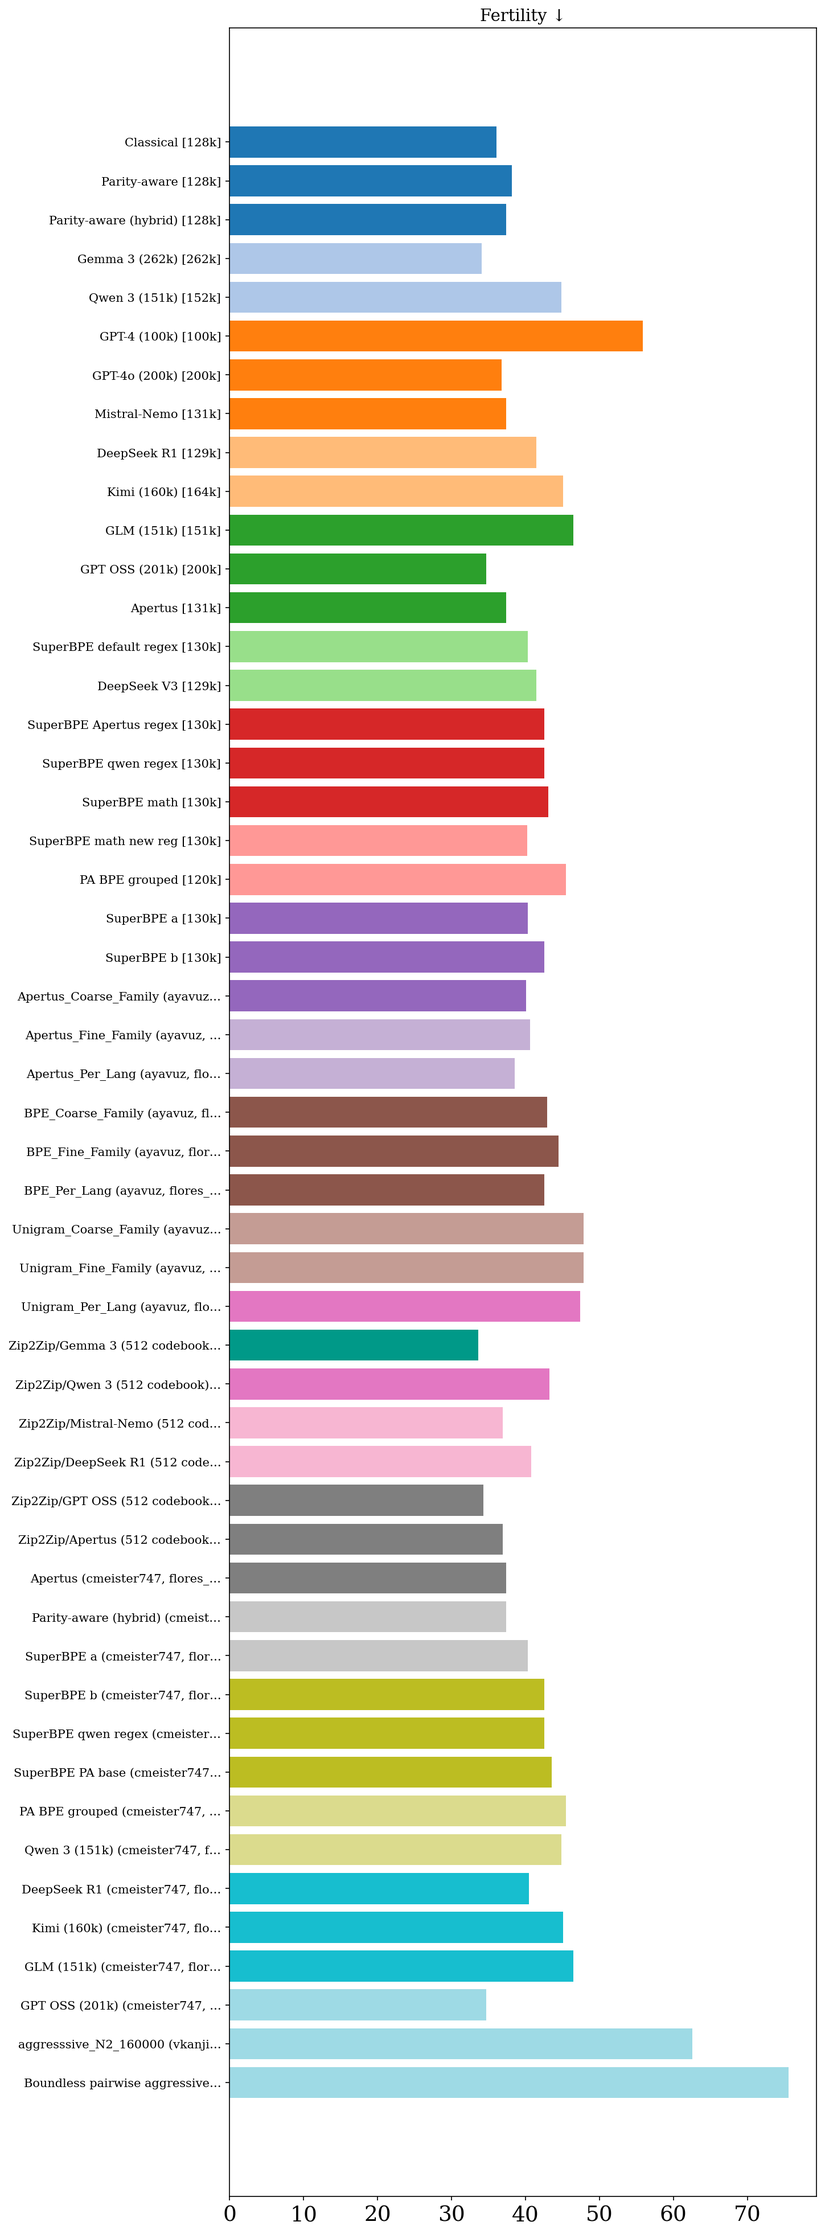
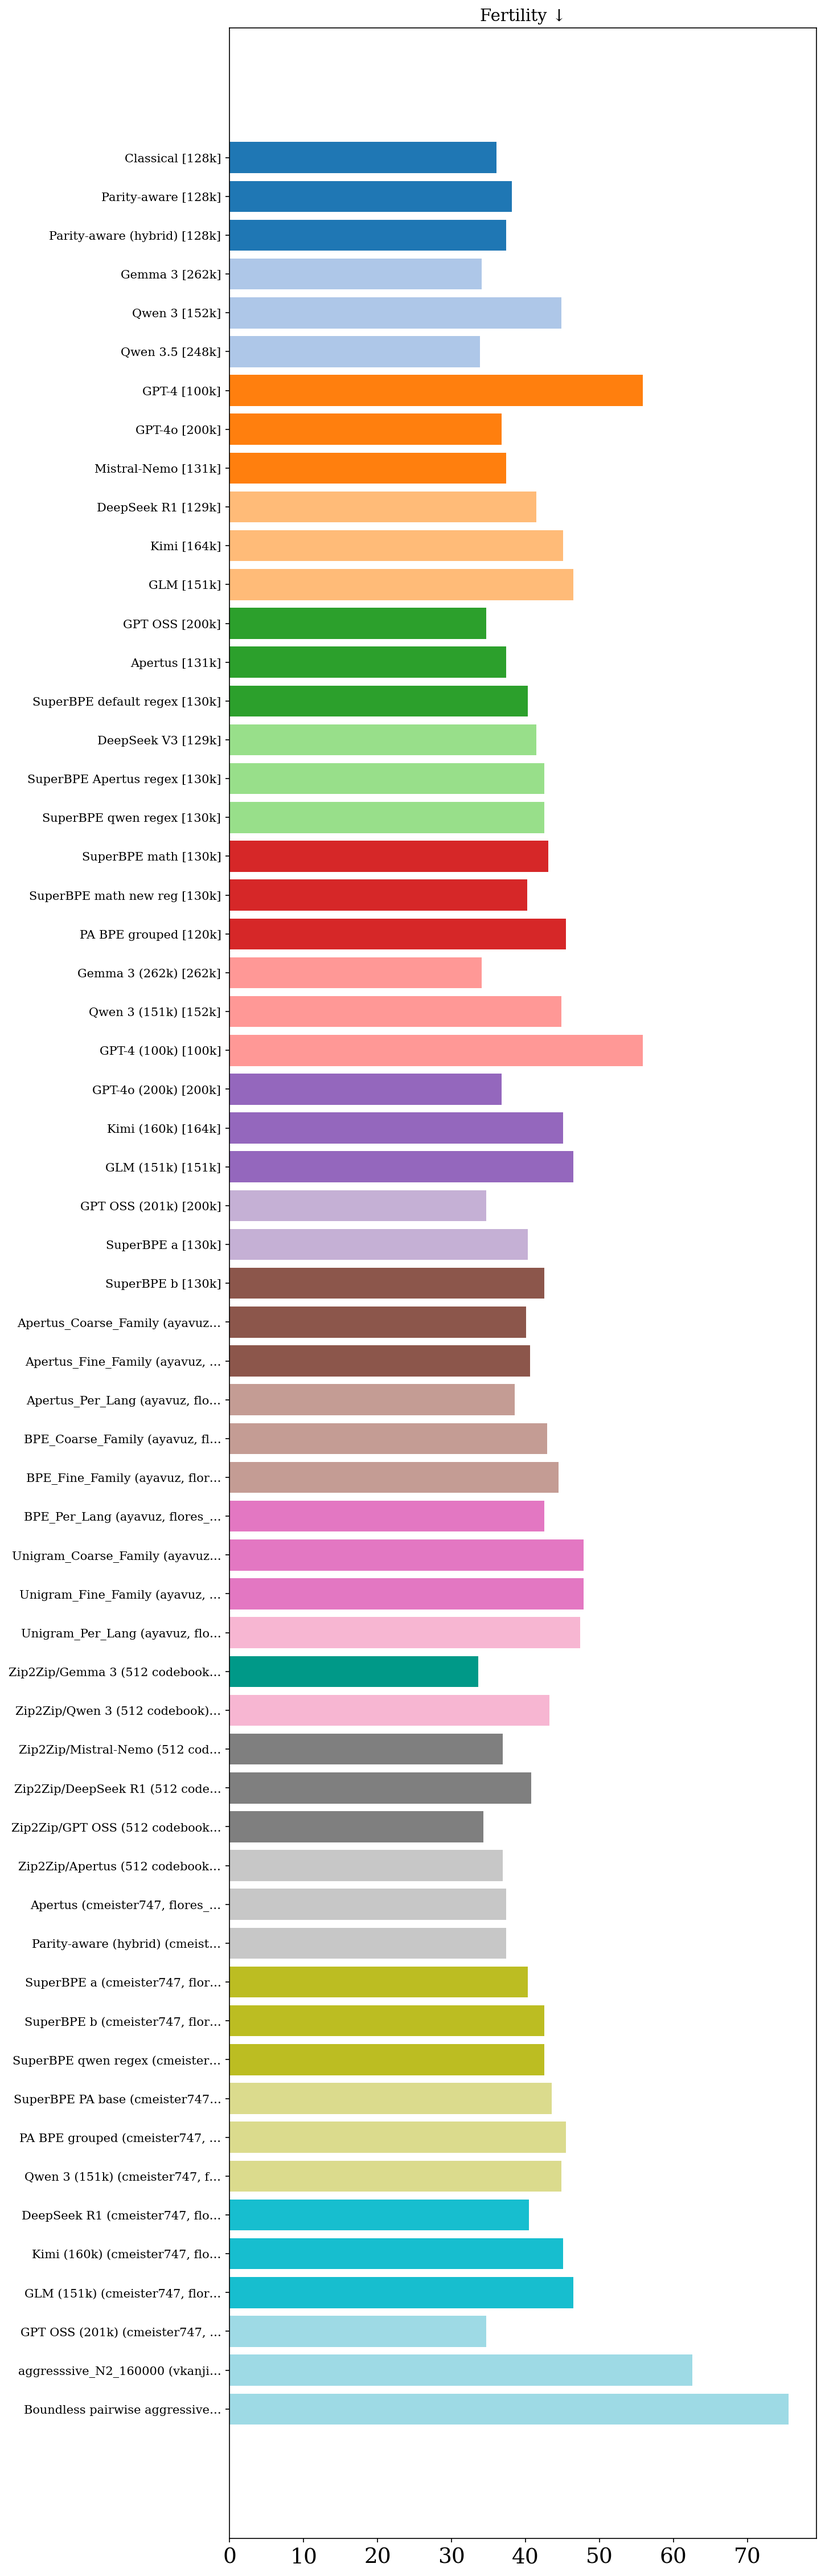
Update RESULTS_flores_core_lines.md (2026-02-27 08:13:20)

diff --git a/RESULTS_flores_core_lines.md b/RESULTS_flores_core_lines.md
@@ -1,9 +1,30 @@
-# Tokenizer Evaluation Results
+# Tokenizer Evaluation Results — flores_core / lines
 
-_Last updated: 2026-02-27 08:07:51_
+_Last updated: 2026-02-26 17:27:10_
 
-| Tokenizer | Vocab Size | Fertility | Compression Rate | Vocab Util. | Avg Token Rank | Gini | 3-Digit Align. F1 | Op. Isolation | AST Align. | Ident. Frag. | Depth Corr. | Pat. Stability | Bound. Cross | Char Split | Languages | UTF-8 Integ. | TTR | Shannon Entropy | Dataset | User | Date |
+| Tokenizer | Vocab Size | Fertility ↓ | Compression Rate ↑ | Vocab Util. ↑ | Avg Token Rank ↓ | Gini ↓ | 3-Digit Align. F1 ↑ | Op. Isolation ↑ | AST Align. ↑ | Ident. Frag. ↓ | Depth Corr. ↑ | Pat. Stability ↑ | Bound. Cross ↓ | Char Split ↓ | Languages | UTF-8 Integ. | TTR | Shannon Entropy | Dataset | User | Date |
 | --- | --- | --- | --- | --- | --- | --- | --- | --- | --- | --- | --- | --- | --- | --- | --- | --- | --- | --- | --- | --- | --- |
+| Classical [128k] | 128,004 | 36.127 | 0.031 | 0.369 | 6524.2 | 0.049 | 0.779 | 0.190 | 0.148 | 0.055 | **0.000** | **1.000** | 0.0033 | 0.0052 | 13 | 0.990 | --- | --- | flores_core | meistecl | 2026-02-26 |
+| Parity-aware [128k] | 128,004 | 38.139 | 0.029 | 0.322 | 5367.5 | **0.012** | 0.742 | 0.191 | 0.188 | 0.082 | 0.000 | 1.000 | 0.0037 | 0.0058 | 13 | 0.989 | --- | --- | flores_core | meistecl | 2026-02-26 |
+| Parity-aware (hybrid) [128k] | 128,004 | 37.385 | 0.030 | 0.330 | 5693.5 | 0.028 | 0.753 | 0.190 | 0.160 | 0.066 | 0.000 | 1.000 | 0.0036 | 0.0057 | 13 | 0.989 | --- | --- | flores_core | meistecl | 2026-02-26 |
+| Gemma 3 [262k] | 262,145 | 34.075 | 0.033 | 0.217 | 7779.7 | 0.054 | 0.446 | 0.346 | 0.088 | 0.030 | -0.113 | 0.966 | 0.0426 | 0.0062 | 13 | --- | --- | --- | flores_core | meistecl | 2026-02-26 |
+| Qwen 3 [152k] | 151,669 | 44.867 | 0.029 | 0.228 | 3303.4 | 0.181 | 0.379 | 0.527 | 0.605 | 0.383 | 0.000 | 1.000 | 0.0513 | 0.0759 | 13 | --- | --- | --- | flores_core | meistecl | 2026-02-26 |
+| Qwen 3.5 [248k] | 248,077 | 33.854 | **0.035** | 0.234 | 7687.9 | 0.099 | 0.379 | 0.527 | **0.680** | 0.381 | 0.000 | 1.000 | 0.0009 | 0.0021 | 13 | --- | --- | --- | flores_core | meistecl | 2026-02-26 |
+| GPT-4 [100k] | 100,261 | 55.839 | 0.023 | 0.192 | 1391.9 | 0.204 | 0.760 | 0.531 | 0.610 | 0.434 | 0.000 | 1.000 | 0.0510 | 0.1586 | 13 | --- | --- | --- | flores_core | meistecl | 2026-02-26 |
+| GPT-4o [200k] | 200,000 | 36.773 | 0.031 | 0.226 | 5833.0 | 0.059 | 0.756 | 0.364 | 0.615 | 0.450 | 0.000 | 1.000 | 0.0089 | 0.0130 | 13 | --- | --- | --- | flores_core | meistecl | 2026-02-26 |
+| Mistral-Nemo [131k] | 131,072 | 37.419 | 0.031 | 0.341 | 5610.9 | 0.069 | 0.379 | 0.139 | 0.060 | 0.037 | 0.000 | 1.000 | 0.0014 | 0.0119 | 13 | 0.977 | --- | --- | flores_core | meistecl | 2026-02-26 |
+| DeepSeek R1 [129k] | 128,815 | 41.449 | 0.029 | 0.285 | 3944.5 | 0.136 | 0.779 | 0.188 | 0.000 | --- | 0.000 | 1.000 | 0.0071 | 0.0126 | 13 | 0.979 | --- | --- | flores_core | meistecl | 2026-02-26 |
+| Kimi [164k] | 163,840 | 45.112 | 0.027 | 0.173 | 2588.9 | 0.137 | 0.779 | 0.489 | 0.609 | 0.408 | 0.000 | 1.000 | 0.0116 | 0.0252 | 13 | --- | --- | --- | flores_core | meistecl | 2026-02-26 |
+| GLM [151k] | 151,343 | 46.472 | 0.027 | 0.251 | 3402.5 | 0.197 | 0.270 | 0.000 | 0.001 | **0.000** | 0.000 | 1.000 | **0.0000** | **0.0000** | 13 | --- | --- | --- | flores_core | meistecl | 2026-02-26 |
+| GPT OSS [200k] | 200,019 | 34.730 | 0.033 | 0.245 | 6659.5 | 0.065 | 0.779 | 0.354 | 0.609 | 0.401 | 0.000 | 1.000 | 0.0019 | 0.0059 | 13 | --- | --- | --- | flores_core | meistecl | 2026-02-26 |
+| Apertus [131k] | 131,072 | 37.419 | 0.031 | 0.341 | 5610.9 | 0.069 | 0.379 | 0.139 | 0.060 | 0.037 | 0.000 | 1.000 | 0.0014 | 0.0119 | 13 | 0.977 | --- | --- | flores_core | meistecl | 2026-02-26 |
+| SuperBPE default regex [130k] | 130,000 | 40.307 | 0.028 | 0.241 | 4421.4 | 0.069 | 0.779 | 0.379 | 0.225 | 0.028 | 0.000 | 1.000 | 0.0050 | 0.0205 | 13 | --- | --- | --- | flores_core | meistecl | 2026-02-26 |
+| DeepSeek V3 [129k] | 128,815 | 41.449 | 0.029 | 0.285 | 3944.5 | 0.136 | 0.779 | 0.188 | 0.000 | --- | 0.000 | 1.000 | 0.0071 | 0.0126 | 13 | --- | --- | --- | flores_core | meistecl | 2026-02-26 |
+| SuperBPE Apertus regex [130k] | 130,000 | 42.557 | 0.028 | 0.253 | 4104.3 | 0.122 | 0.779 | 0.966 | 0.259 | 0.029 | 0.000 | 1.000 | 0.0038 | 0.0156 | 13 | --- | --- | --- | flores_core | meistecl | 2026-02-26 |
+| SuperBPE qwen regex [130k] | 130,000 | 42.575 | 0.027 | 0.280 | 5048.7 | 0.059 | 0.379 | 0.312 | 0.284 | 0.024 | 0.000 | 1.000 | 0.0047 | 0.0196 | 13 | 0.966 | --- | --- | flores_core | meistecl | 2026-02-26 |
+| SuperBPE math [130k] | 130,000 | 43.112 | 0.028 | 0.254 | 3831.6 | 0.131 | 0.779 | **0.967** | 0.264 | 0.028 | 0.000 | 1.000 | 0.0047 | 0.0193 | 13 | --- | --- | --- | flores_core | meistecl | 2026-02-26 |
+| SuperBPE math new reg [130k] | 130,000 | 40.223 | 0.029 | 0.258 | 4403.1 | 0.085 | **0.953** | 0.311 | 0.230 | 0.027 | 0.000 | 1.000 | 0.0061 | 0.0247 | 13 | --- | --- | --- | flores_core | meistecl | 2026-02-26 |
+| PA BPE grouped [120k] | 120,260 | 45.497 | 0.025 | 0.199 | 2898.5 | 0.073 | 0.712 | 0.191 | 0.159 | 0.067 | 0.000 | 1.000 | 0.0105 | 0.0415 | 13 | 0.934 | --- | --- | flores_core | meistecl | 2026-02-26 |
 | Apertus_Coarse_Family (ayavuz, flores_core) | --- | 40.070 | 0.029 | 0.340 | --- | 0.103 | --- | --- | --- | --- | --- | --- | --- | --- | 13 | --- | 0.0858 | 12.49 | flores_core | ayavuz | 2026-02-21 |
 | Apertus_Fine_Family (ayavuz, flores_core) | --- | 40.619 | 0.029 | 0.336 | --- | 0.114 | --- | --- | --- | --- | --- | --- | --- | --- | 13 | --- | 0.0837 | 12.43 | flores_core | ayavuz | 2026-02-21 |
 | Apertus_Per_Lang (ayavuz, flores_core) | --- | 38.592 | 0.030 | 0.333 | --- | 0.083 | --- | --- | --- | --- | --- | --- | --- | --- | 13 | --- | 0.0872 | 12.62 | flores_core | ayavuz | 2026-02-21 |
@@ -13,11 +34,11 @@ _Last updated: 2026-02-27 08:07:51_
 | Unigram_Coarse_Family (ayavuz, flores_core) | --- | 47.868 | 0.024 | 0.254 | --- | 0.066 | --- | --- | --- | --- | --- | --- | --- | --- | 13 | --- | 0.0536 | 11.73 | flores_core | ayavuz | 2026-02-21 |
 | Unigram_Fine_Family (ayavuz, flores_core) | --- | 47.843 | 0.024 | 0.247 | --- | 0.065 | --- | --- | --- | --- | --- | --- | --- | --- | 13 | --- | 0.0521 | 11.72 | flores_core | ayavuz | 2026-02-21 |
 | Unigram_Per_Lang (ayavuz, flores_core) | --- | 47.415 | 0.024 | 0.233 | --- | 0.061 | --- | --- | --- | --- | --- | --- | --- | --- | 13 | --- | 0.0497 | 11.70 | flores_core | ayavuz | 2026-02-21 |
-| Zip2Zip/Gemma 3 (512 codebook) (saibo, flores_core) | 262,657 | 33.668 | 0.034 | 0.217 | 7808.0 | 0.053 | --- | --- | --- | --- | --- | --- | --- | --- | 13 | --- | 0.1303 | 13.08 | flores_core | saibo | 2026-02-18 |
+| Zip2Zip/Gemma 3 (512 codebook) (saibo, flores_core) | 262,657 | **33.668** | 0.034 | 0.217 | 7808.0 | 0.053 | --- | --- | --- | --- | --- | --- | --- | --- | 13 | --- | 0.1303 | 13.08 | flores_core | saibo | 2026-02-18 |
 | Zip2Zip/Qwen 3 (512 codebook) (saibo, flores_core) | 152,181 | 43.280 | 0.029 | 0.228 | 3441.9 | 0.164 | --- | --- | --- | --- | --- | --- | --- | --- | 13 | --- | 0.0619 | 12.15 | flores_core | saibo | 2026-02-18 |
 | Zip2Zip/Mistral-Nemo (512 codebook) (saibo, flores_core) | 131,584 | 36.910 | 0.031 | 0.340 | 5639.2 | 0.068 | --- | --- | --- | --- | --- | --- | --- | --- | 13 | --- | 0.0936 | 12.86 | flores_core | saibo | 2026-02-18 |
 | Zip2Zip/DeepSeek R1 (512 codebook) (saibo, flores_core) | 129,327 | 40.814 | 0.029 | 0.285 | 3985.5 | 0.133 | --- | --- | --- | --- | --- | --- | --- | --- | 13 | --- | 0.0697 | 12.44 | flores_core | saibo | 2026-02-18 |
 | Zip2Zip/GPT OSS (512 codebook) (saibo, flores_core) | 200,531 | 34.314 | 0.033 | 0.244 | 6676.6 | 0.064 | --- | --- | --- | --- | --- | --- | --- | --- | 13 | --- | 0.1102 | 13.22 | flores_core | saibo | 2026-02-18 |
 | Zip2Zip/Apertus (512 codebook) (saibo, flores_core) | 131,584 | 36.910 | 0.031 | 0.340 | 5639.2 | 0.068 | --- | --- | --- | --- | --- | --- | --- | --- | 13 | --- | 0.0936 | 12.86 | flores_core | saibo | 2026-02-18 |
 | aggresssive_N2_160000 (vkanjira, flores_core) | 19,051 | 62.586 | 0.019 | 0.295 | 382.8 | 0.120 | 0.635 | 0.382 | --- | --- | --- | --- | --- | --- | 13 | --- | 0.0069 | 9.53 | flores_core | vkanjira | 2026-02-22 |
-| Boundless pairwise aggressive n2 (dkletz, flores_core) | 5,033 | 75.587 | 0.017 | 0.480 | 121.7 | 0.131 | --- | 0.087 | --- | --- | --- | --- | --- | --- | 13 | --- | 0.0025 | 7.88 | flores_core | dkletz | 2026-02-22 |
+| Boundless pairwise aggressive n2 (dkletz, flores_core) | 5,033 | 75.587 | 0.017 | **0.480** | **121.7** | 0.131 | --- | 0.087 | --- | --- | --- | --- | --- | --- | 13 | --- | 0.0025 | 7.88 | flores_core | dkletz | 2026-02-22 |
